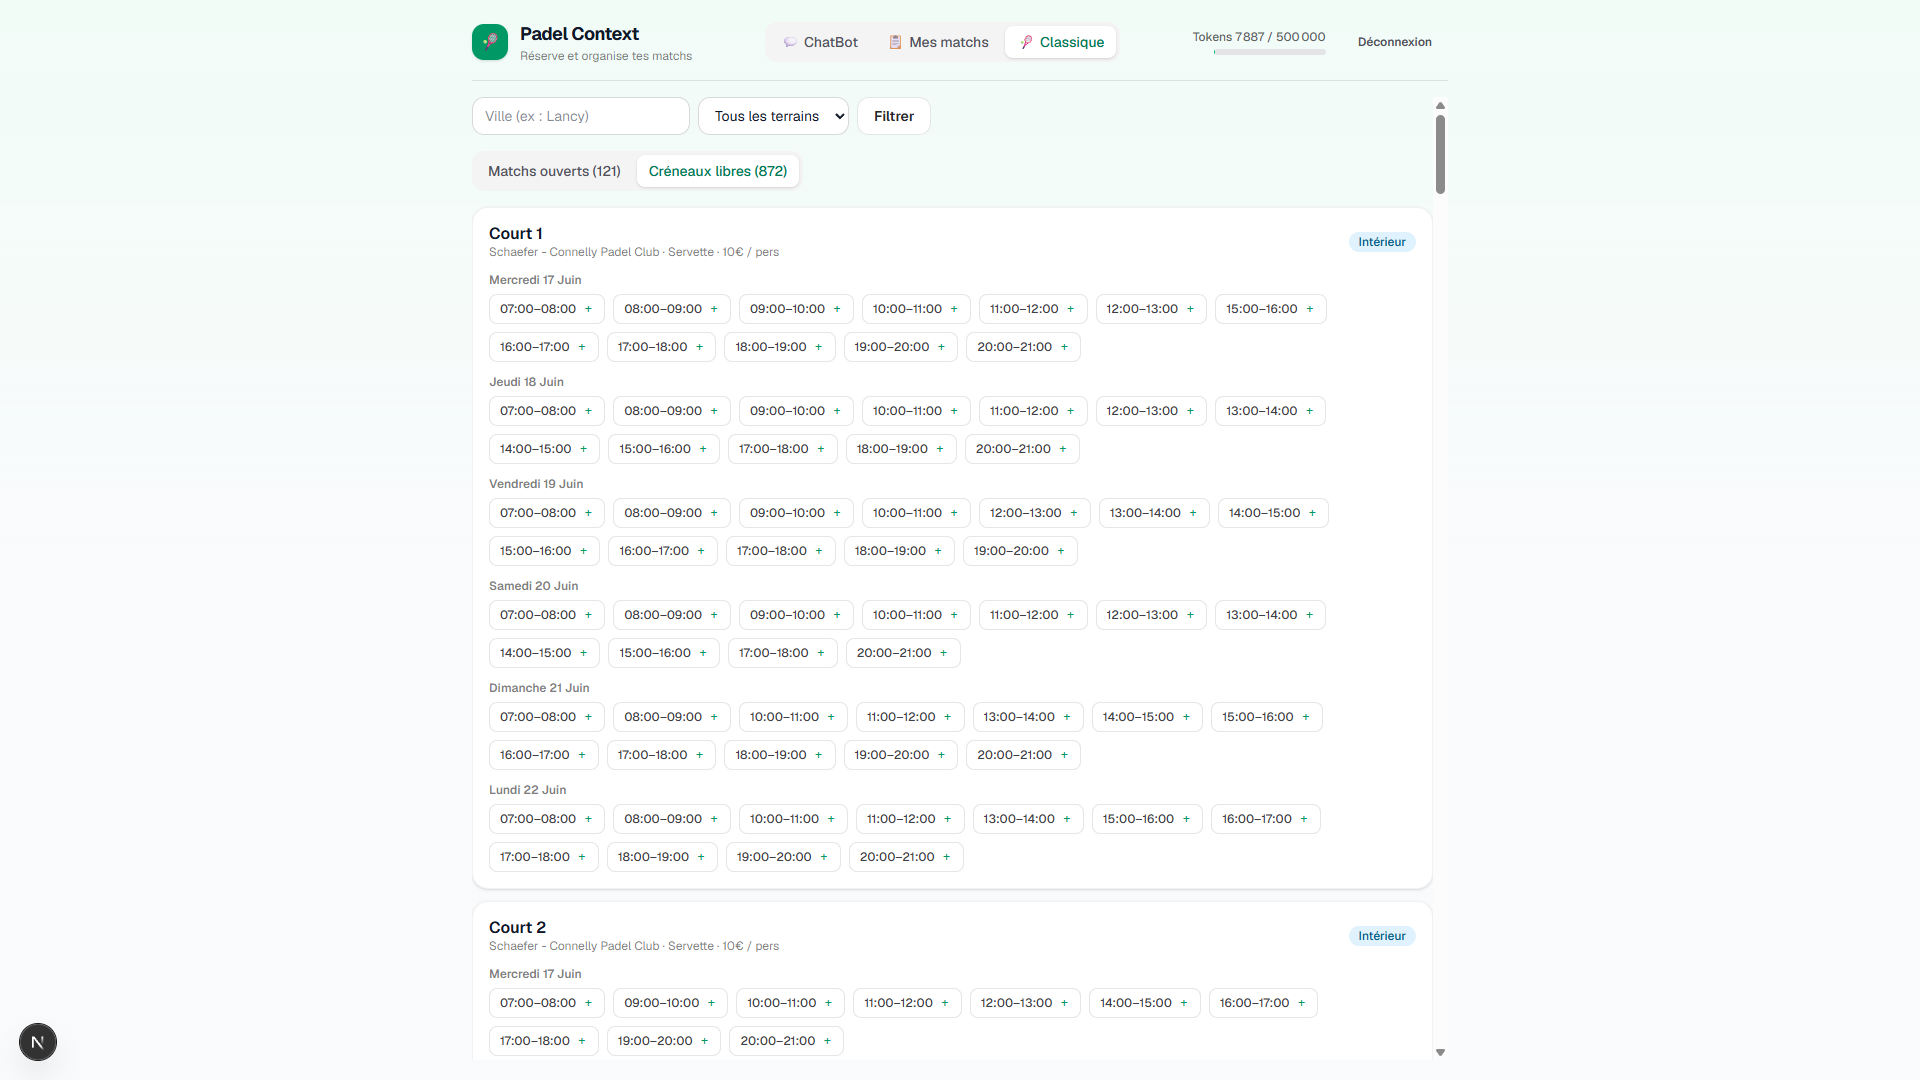
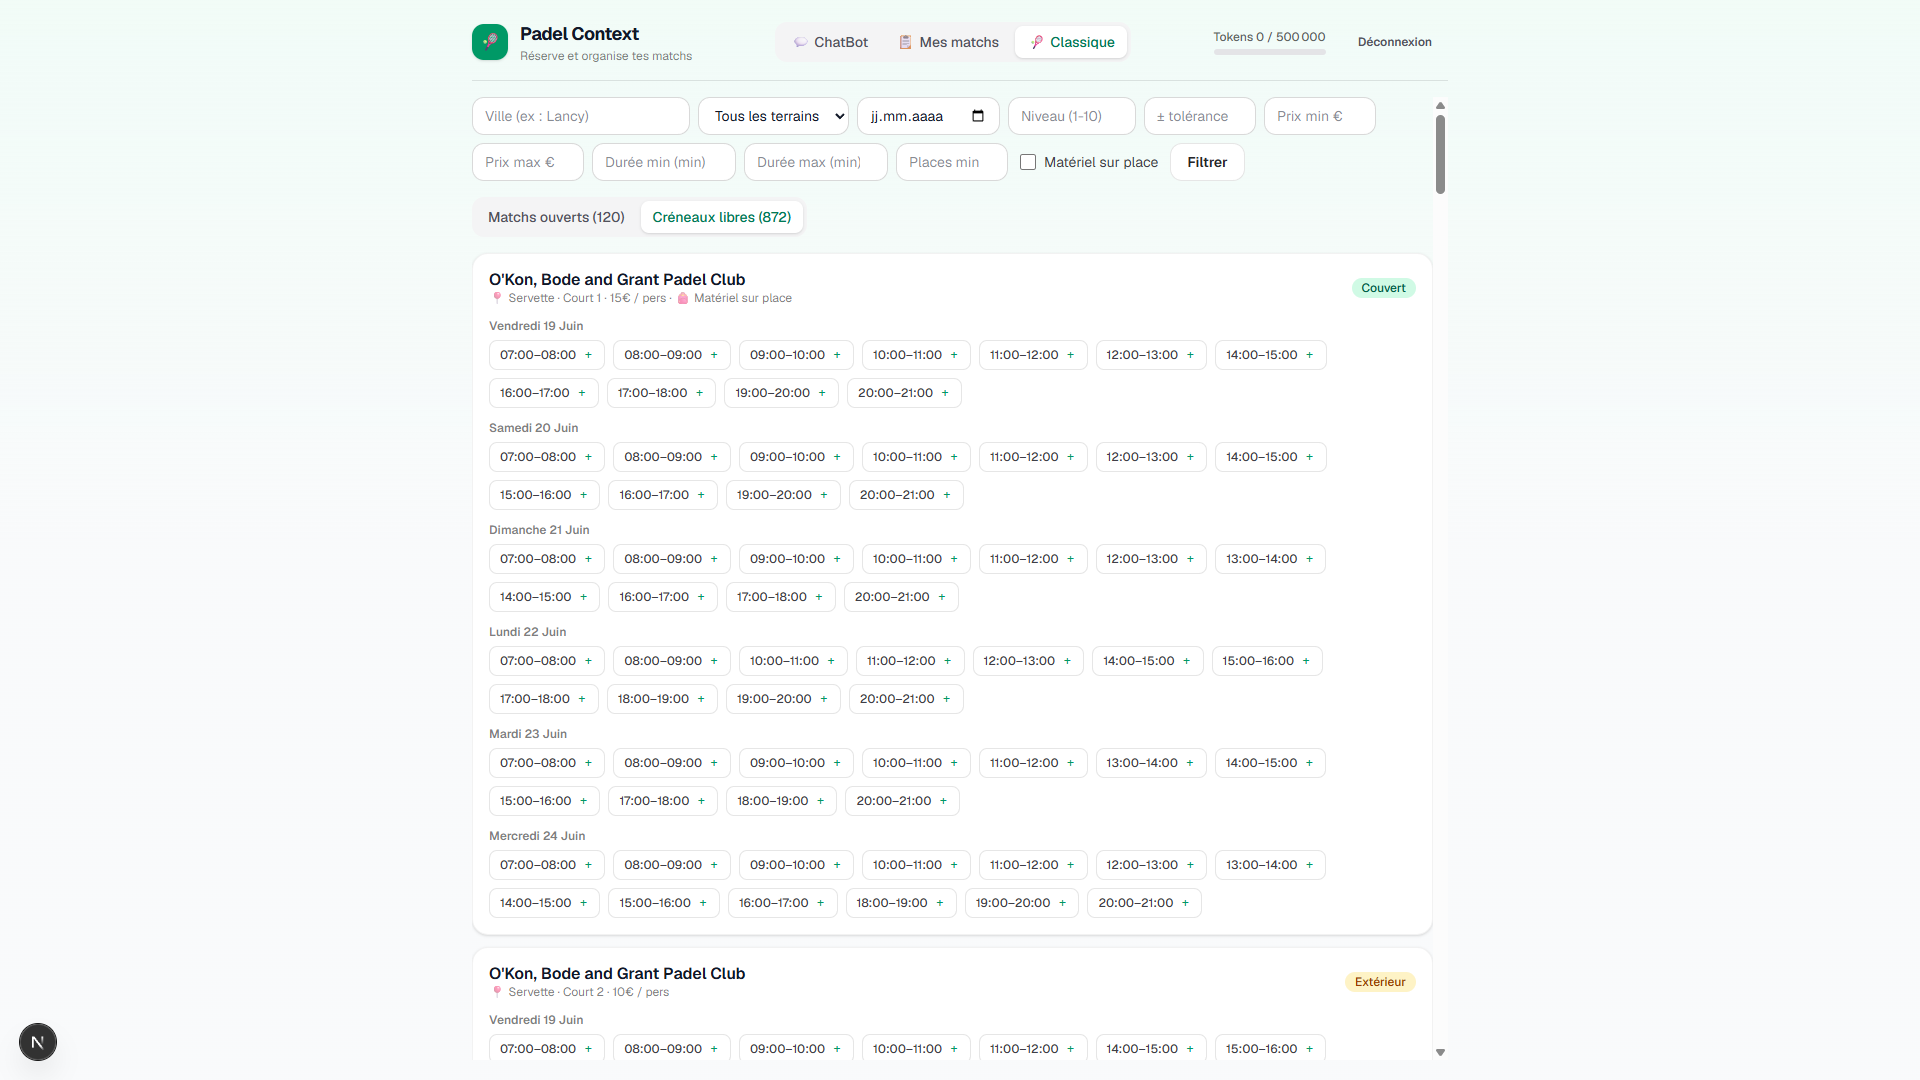
[Documentation] Modification des captures d'écran de l'applicaiton et justification de la non réalisation dun outil MCP pour la météo

diff --git a/documentation-latex/main.tex b/documentation-latex/main.tex
@@ -505,7 +505,7 @@ Le diagramme de la figure \ref{fig:system_architecture} synthétise les différe
 \end{figure}
 L'écosystème repose sur quatre services conteneurisés. Le client MCP web constitue le point d'entrée du joueur et pilote le modèle de langage qui anime l'assistant conversationnel. Il transmet les requêtes au serveur MCP, lequel expose les fonctionnalités de l'application sous forme d'outils et relaie les appels vers l'API REST. Cette dernière centralise la logique métier et l'accès aux données. Elle interroge la base de données PostgreSQL pour les informations propres à l'application, et l'API externe MeteoSwiss pour enrichir les créneaux extérieurs de prévisions météorologiques.
 \newline\newline
-Le choix de confier la récupération des données météorologiques à l'API, plutôt qu'à un outil dédié du serveur MCP, constitue un parti pris d'architecture détaillé dans la section consacrée à la maîtrise des coûts du projet.
+Le choix de confier la récupération des données météorologiques à l'API, plutôt qu'à un outil dédié du serveur MCP, constitue un parti pris d'architecture détaillé dans l'évaluation de la viabilité des coûts.
 \newline\newline
 Sur le plan de la configuration, les ports utilisés pour les communications internes entre les conteneurs sont fixés en dur dans le code de chaque service, tandis que les ports exposés sur la machine hôte restent configurables via des variables d'environnement. Cette approche conserve une structure interne stable tout en préservant la souplesse nécessaire au déploiement.
 
@@ -824,7 +824,7 @@ La spécification technique complète et exhaustive de ces points de terminaison
 Des captures d'écran détaillant l'utilisation et les réponses de chaque point de terminaison via cette interface sont disponibles dans l'annexe \ref{annexe:swagger}.
 \subsubsection{Acquisition des données météorologiques}
 
-Comme présenté lors de la conception, l'accès aux données météorologiques constitue un élément central de la solution PadelContext. Initialement envisagé comme un outil MCP interrogé directement par le modèle de langage lors de la planification du projet, il a finalement été réalisé sous la forme d'un service interne à l'API REST. Ce choix centralise la logique d'acquisition et de mise en cache des prévisions au sein de l'API. Le serveur MCP se contente alors d'appeler le point de terminaison \texttt{/api/weather} lorsqu'un terrain extérieur est concerné. Cette décision répond également à un objectif d'optimisation du coût en tokens du modèle de langage, détaillé dans l'évaluation des résultats.
+Comme présenté lors de la conception, l'accès aux données météorologiques constitue un élément central de la solution PadelContext. Initialement envisagé comme un outil MCP interrogé directement par le modèle de langage lors de la planification du projet, il a finalement été réalisé sous la forme d'un service interne à l'API REST. Ce choix centralise la logique d'acquisition et de mise en cache des prévisions au sein de l'API. Le serveur MCP se contente alors d'appeler le point de terminaison \texttt{/api/weather} lorsqu'un terrain extérieur est concerné. Cette décision répond également à un objectif d'optimisation du coût en tokens du modèle de langage, détaillé dans l'évaluation de la viabilité des coûts.
 \newline\newline
 Cette acquisition repose sur un service dédié, conçu sous la forme d'un singleton. Une instance unique est ainsi partagée dans toute l'application, ce qui garantit que les données téléchargées en arrière-plan et celles lues lors d'une requête proviennent du même cache en mémoire. Au démarrage, le service charge en mémoire un fichier CSV statique fourni par MeteoSwiss qui associe chaque code postal suisse à un identifiant de point de prévision (\texttt{point\_id}). Les prévisions sont ensuite conservées dans un cache en mémoire vive, organisé par catégorie de mesure. Trois catégories sont retenues, la température, la probabilité de précipitations et la vitesse du vent.
 \newline\newline
@@ -1140,6 +1140,8 @@ Les mesures relevées dans Langfuse montrent que ce coût dépend avant tout de 
 À cette charge s'ajoutent les allers-retours propres au fonctionnement de l'assistant. Chaque tour de conversation renvoie au modèle l'ensemble du contexte conservé, si bien qu'une requête suivante cumule l'historique déjà établi et de nouvelles données pour atteindre une quinzaine de milliers de tokens. Pour borner cet emballement, une fenêtre glissante limite le contexte transmis aux six derniers messages. Même dans ce cas le plus lourd, une interaction complète reste de l'ordre du centime, et entièrement gratuite dans le cadre de l'offre d'essai utilisée pour ce travail.
 \newline\newline
 Plusieurs optimisations ont été appliquées pour contenir cette consommation. Les résultats des outils sont transmis au format YAML plutôt qu'en JSON, plus léger en tokens à données égales. À l'inverse, les descriptions détaillées des outils, qui constituent la meilleure parade contre les hallucinations étudiée à la section précédente, sont renvoyées à chaque appel et pèsent sur chaque requête. La conception a donc cherché un équilibre entre des descriptions assez riches pour fiabiliser le modèle et assez sobres pour rester économiques.
+\newline\newline
+Une autre optimisation tient à la place des données météorologiques dans l'architecture. Plutôt que d'en faire un outil MCP distinct interrogé par le modèle de langage, ces données sont récupérées par l'API et intégrées directement à la réponse des outils de recherche, de sorte qu'un créneau extérieur arrive déjà accompagné de sa température, de sa probabilité de pluie et de sa vitesse de vent. Un outil dédié aurait au contraire alourdi chaque échange de deux manières. Sa description aurait été transmise au modèle à chaque requête, et surtout le modèle aurait dû multiplier les allers-retours pour obtenir la météo de chaque terrain extérieur, chacun rechargeant l'ensemble du contexte. En fondant cet enrichissement dans un seul appel, l'architecture évite ce surcoût tout en conservant une réponse complète.
 \newline\newline
 Au-delà du coût, la complexité d'intégration mérite d'être soulignée, car elle conditionne elle aussi la viabilité à long terme. Le protocole MCP agit comme une norme qui standardise la connexion entre des données externes et un modèle de langage. Le modèle n'est de ce fait pas figé dans l'architecture, et le remplacer par une option plus performante ou meilleur marché ne demande qu'un changement minime. La viabilité du projet ne dépend donc pas d'un fournisseur unique, puisque l'évolution constante du marché des modèles de langage pourra être suivie sans refonte de l'application. Cette standardisation joue d'ailleurs dans les deux sens, car brancher un serveur MCP différent pour exposer d'autres données reste tout aussi simple.
 